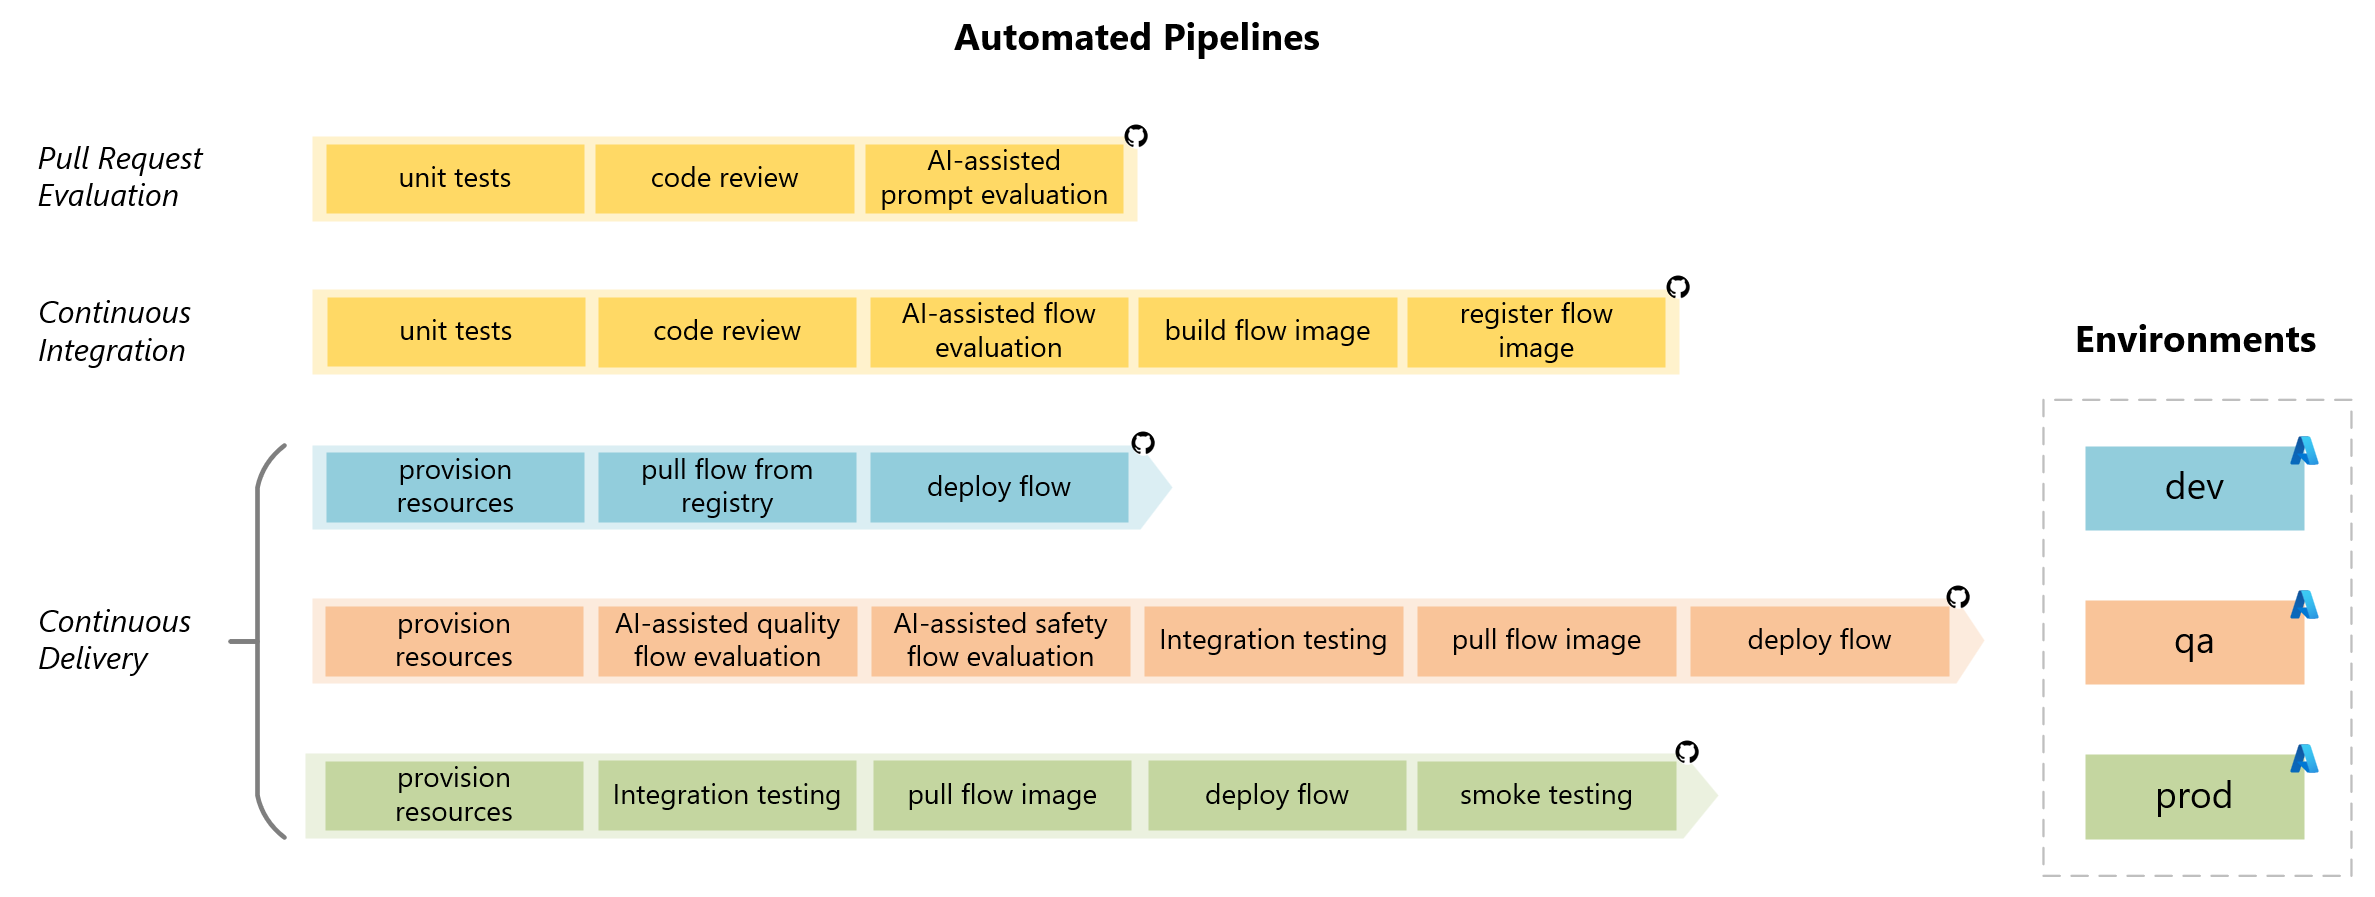
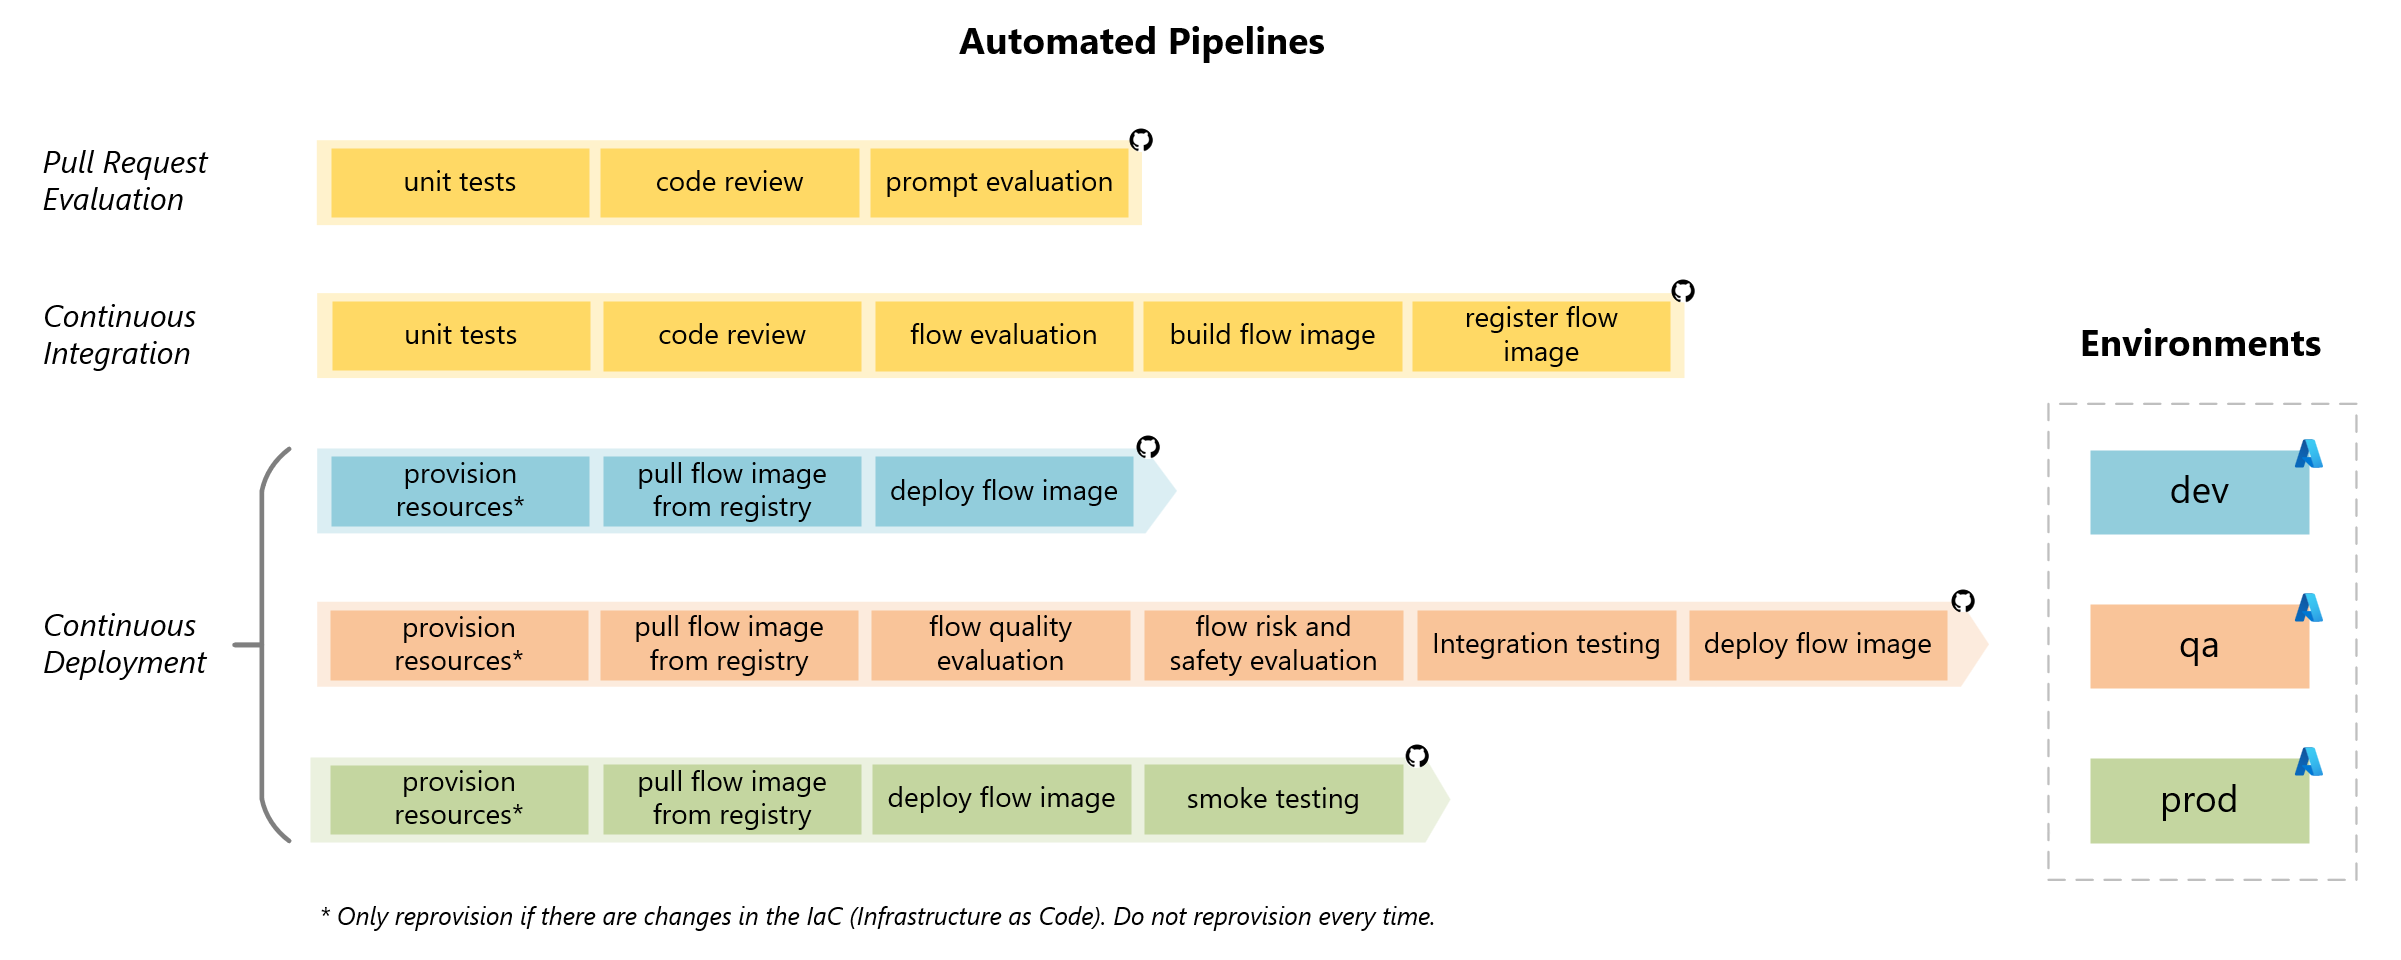
documentation

diff --git a/documentation/git_workflow.md b/documentation/git_workflow.md
@@ -1,6 +1,6 @@
 # Git Workflow and Pipelines
 
-On this page, you will learn about the Git workflow used by this accelerator, including branches and how changes to the code can trigger automation pipelines.This workflow follows the [Git flow](https://nvie.com/posts/a-successful-git-branching-model) methodology, which is a best practice for managing Git with multiple environments like **dev**, **qa**, and **prod**. But you can always choose the workflow that works best for your project.
+On this page, you will learn about the Git workflow used by this accelerator, including branches and how changes to the code can trigger automation pipelines. The workflow follows the [Git flow](https://nvie.com/posts/a-successful-git-branching-model) methodology, which is widely recognized for effectively managing Git with multiple environments like **dev**, **qa**, and **prod**. However, feel free to choose the workflow that best suits your project's needs.
 
 # Git Workflow
 
@@ -36,11 +36,11 @@ gh pr create --base develop --head feature/feature_x --title "[Your Feature Name
 
 3. **Merge to develop**:
 
-Once the Pull Request is approved, it is merged into the `develop` branch. This merge triggers the *Continuous Integration (CI) Pipeline*, which builds the orchestration flow and conducts AI-assisted evaluations using a comprehensive test dataset based on the [Golden Dataset](https://aka.ms/copilot-golden-dataset-guide). Upon successful completion, the *Continuous Delivery (CD) Pipeline* is executed to deploy the flow to the **dev** environment.
+Once the Pull Request is approved, it is merged into the `develop` branch. This merge triggers the *Continuous Integration (CI) Pipeline*, which builds the orchestration flow and conducts AI-assisted evaluations using a comprehensive test dataset based on the [Golden Dataset](https://aka.ms/copilot-golden-dataset-guide). Upon successful completion, the *Continuous Deployment (CD) Pipeline* is executed to deploy the flow to the **dev** environment.
 
 4. **Release Branch (Release/1.0.0)**:
 
-After confirming the stability of the `develop` branch through testing in **dev**, a release branch `release/1.0.0` is created from `develop`. This triggers a *Continuous Delivery (CD) pipeline* to deploy the application to the **qa** environment. Before deployment, an AI-based evaluation assesses quality, risk, and safety metrics to ensure stability. The application in **qa** is then used for User Acceptance Testing (UAT) and [red teaming](https://learn.microsoft.com/en-us/azure/ai-services/openai/concepts/red-teaming) testing.
+After confirming the stability of the `develop` branch through testing in **dev**, a release branch `release/1.0.0` is created from `develop`. This triggers a *Continuous Deployment (CD) pipeline* to deploy the application to the **qa** environment. Before deployment, an AI-based evaluation assesses [quality](https://learn.microsoft.com/en-us/azure/ai-studio/how-to/develop/flow-evaluate-sdk), risk and [safety](https://learn.microsoft.com/en-us/azure/ai-studio/how-to/develop/simulator-interaction-data) evaluation. The application in **qa** is then used for User Acceptance Testing (UAT) and [red-teaming](https://learn.microsoft.com/en-us/azure/ai-services/openai/concepts/red-teaming) ou LLM App.
 
 ```bash
 git checkout develop
@@ -60,16 +60,24 @@ gh pr create --base main --head release/1.0.0 --title "Release 1.0.0" --body "Me
 
 6. **Merge to main**:
 
-Once the pull request (PR) to the `main` branch is manually approved, the release branch is merged into the `main` branch. This action triggers the Continuous Delivery (CD) pipeline, which deploys the code to the **prod** environment.
+Once the pull request (PR) to the `main` branch is manually approved, the release branch is merged into the `main` branch. This action triggers the Continuous Deployment (CD) pipeline, which deploys the code to the **prod** environment.
 
 ## CI/CD Pipelines
 
-CI/CD (Continuous Integration/Continuous Delivery) pipelines automate integration, evaluation, and deployment, streamlining workflows, reducing errors, and ensuring efficient delivery of high-quality application to production.
+The CI/CD (Continuous Integration/Continuous Deployment) pipelines automate integration, evaluation, and deployment processes, ensuring efficient delivery of high-quality applications.
 
 ![Pipelines](../media/git_workflow_pipelines.png)
 
-The *Pull Request pipeline* runs unit tests and utilize AI-assisted evaluation to validate the changes in the pull request. This step ensures that any new code additions or modifications meet the project's quality standards before being integrated into the main codebase.
+**The Pull Request Evaluation Pipeline** begins with unit tests, followed by a code review, and concludes with AI-assisted prompt evaluation to validate code changes before integration.
 
-In the *Continuous Integration pipeline*, the process starts with the build flow, where the application is built from the source code. Following this, an AI-assisted evaluation is conducted to analyze the build for potential issues. If the evaluation is successful, the final step is the register flow, which registers the built application and prepares it for deployment.
+**In the Continuous Integration Pipeline**, the process starts with unit tests and code reviews, followed by AI-assisted flow evaluation to identify potential issues. The application is then built, and the flow image is registered for deployment.
 
-The *Continuous Delivery pipeline* has three different configurations one for each environment: **dev**, **qa**, and **prod**. In the *dev* option, necessary resources are set up, the latest code is pulled, and the application is deployed to the **dev** environment for initial testing. The *qa* alternative provisions resources, retrieves the latest code, and performs an AI-assisted evaluation to ensure the application meets quality standards before deployment to the **qa** environment. Finally, the *prod* option deploys the application to the **prod** environment after provisioning resources and updating the code. Smoke tests confirm the application's functionality post-deployment.
+**The Continuous Deployment Pipeline** operates across three environments: dev, qa, and prod. Provisioning of resources is performed when necessary, and the deployment of the application is executed in the respective environment.
+
+- **In the dev environment**, the latest code is pulled, and the application is deployed for the development team's testing.
+
+- **In the qa environment**, the code is retrieved, and AI-assisted evaluations for quality and safety are conducted, followed by integration testing. The application is then deployed and made available for User Acceptance Testing (UAT).
+
+- **In the prod environment**, the same image built in the Continuous Integration Pipeline is deployed, ensuring consistency and reliability. Integration testing is conducted, and smoke testing ensures functionality post-deployment.
+
+This structured approach streamlines workflows, reduces errors, and guarantees the efficient delivery of applications to production.

diff --git a/documentation/delivering_new_feature.md b/documentation/delivering_new_feature.md
@@ -48,7 +48,7 @@ New-Item -ItemType File -Name "FEATUREX.md"
 
 This ensures the new feature is developed in isolation, maintaining the integrity of the project's `develop` branch and promptflow.
 
-### 2. Pull Request (PR)
+### 2. Pull Request (PR) to `develop`
 
 Upon completing the feature, create a Pull Request (PR) to merge changes from the feature branch `feature/feature_x` to the `develop` branch, which is the default branch where the team integrates changes.
 
@@ -60,17 +60,19 @@ git commit -m "Feature complete: [Your Feature Description]"
 git push origin feature/feature_x
 ```
 
-**Create the PR using GitHub CLI or the GitHub website:**
+**Create the PR:**
 
 ```bash
 gh pr create --base develop --head feature/feature_x --title "[Your Feature Name]" --body "Description of the changes and the impact."
 ```
 
+You can also use the GitHub website to create the pull request. Remember to select `develop` as the base branch and `feature/feature_x` as the compare branch.
+
 The creation of the PR triggers a PR Evaluation Pipeline to ensure that the code adheres to standards, passes unit tests, and the orchestration flow is evaluated by AI to ensure it meets quality metrics.
 
 ### 3. Merge to `develop`
 
-Approve the Pull Request, merging it into the `develop` branch. This merge triggers the Continuous Integration (CI) Pipeline, which builds the orchestration flow and conducts AI-assisted evaluations using a comprehensive test dataset based on the [Golden Dataset](https://aka.ms/copilot-golden-dataset-guide). Upon successful completion, the Continuous Delivery (CD) Pipeline is executed to deploy the flow to the **dev** environment.
+Approve the Pull Request, merging it into the `develop` branch. This merge triggers the Continuous Integration (CI) Pipeline, which builds the orchestration flow and conducts AI-assisted evaluations using a comprehensive test dataset based on the [Golden Dataset](https://aka.ms/copilot-golden-dataset-guide). Upon successful completion, the Continuous Deployment (CD) Pipeline is executed to deploy the flow to the **dev** environment.
 
 **Merge the PR using GitHub:**
 
@@ -78,7 +80,7 @@ Go to the Pull Requests tab in your repository, select the recently created PR, 
 
 ### 4. Release Branch (`release/1.0.0`)
 
-After confirming the stability of the `develop` branch through testing in **dev**, create a release branch `release/1.0.0` from `develop`. This triggers a Continuous Delivery (CD) pipeline to deploy the application to the **qa** environment. Before deployment, an AI-based evaluation assesses quality, risk, and safety metrics to ensure stability. The application in **qa** is then used for User Acceptance Testing (UAT) and [red teaming](https://learn.microsoft.com/en-us/azure/ai-services/openai/concepts/red-teaming) testing.
+After confirming the stability of the `develop` branch through testing in **dev**, create a release branch `release/1.0.0` from `develop`. This triggers a *Continuous Deployment (CD) pipeline* to deploy the application to the **qa** environment. Before deployment, an AI-based evaluation assesses [quality](https://learn.microsoft.com/en-us/azure/ai-studio/how-to/develop/flow-evaluate-sdk), risk and [safety](https://learn.microsoft.com/en-us/azure/ai-studio/how-to/develop/simulator-interaction-data) evaluation. The application in **qa** is then used for User Acceptance Testing (UAT) and [red-teaming](https://learn.microsoft.com/en-us/azure/ai-services/openai/concepts/red-teaming) ou LLM App.
 
 **Create the release branch:**
 
@@ -93,12 +95,16 @@ git push origin release/1.0.0
 
 After UAT tests in the **qa** environment confirm that the application is ready for production, create a Pull Request (PR) to merge the changes into the `main` branch from the `release/1.0.0` branch.
 
-**Create the PR using GitHub CLI or the GitHub website:**
+**Create the PR:**
+
+Below is an example utilizing the GitHub CLI:
 
 ```bash
-gh pr create --base main --head release/1.0.0 --title "Release 1.0.0" --body "Merging release/1.0.0 into main after successful UAT in QA environment" 
+gh pr create --base main --head release/1.0.0 --title "Release 1.0.0" --body "Merging release/1.0.0 into main after successful UAT in QA environment"
 ```
+
+You can also use the GitHub website to create the pull request. Remember to select `main` as the base branch and `release/1.0.0` as the compare branch.
 
 ### 6. Merge to `main`
 
-Once the Pull Request (PR) to the `main` branch is approved on GitHub, go to the Pull Requests tab of your project repository on GitHub, select the PR created for merging into production, and click on **Merge pull request** to manually approve the merge of `release/1.0.0` into the `main` branch. This action triggers the Continuous Delivery (CD) pipeline, which deploys the code to the **prod** environment.
+Once the Pull Request (PR) to the `main` branch is approved on GitHub, go to the Pull Requests tab of your project repository on GitHub, select the PR created for merging into production, and click on **Merge pull request** to manually approve the merge of `release/1.0.0` into the `main` branch. This action triggers the Continuous Deployment (CD) pipeline, which deploys the code to the **prod** environment.

diff --git a/documentation/bootstrapping.md b/documentation/bootstrapping.md
@@ -18,17 +18,17 @@ You will also need:
 
 ## Steps to Bootstrap a Project
 
-1. **Clone the LLMOps Repo (this repository)**
+1. **Clone the LLMOps Repo (this repository) into a temporary directory**
 
-   Clone the repository from GitHub:
+   Clone the repository from GitHub into a temporary directory:
 
    ```sh
-   git clone https://github.com/azure/llmops
+   git clone https://github.com/azure/llmops /tmp/llmops
    ```
 
 2. **Define Properties for Bootstrapping**
 
-   Enter the `llmops` directory, rename the `bootstrap.properties.template` file to `bootstrap.properties`, and update it with the following information:
+    Go to the `llmops` directory, create a copy of the `bootstrap.properties.template` file, rename the copy to `bootstrap.properties`, and update it with the following information:
 
    - **GitHub Repo Creation** (related to the new repository to be created)
      - `github_username`: Your GitHub **username**.
@@ -37,7 +37,7 @@ You will also need:
      - `github_new_repo`: The bootstrapped project repo to be created. Ex *placerda/my-rag-project*.
      - `github_new_repo_visibility`: Visibility of the new repository, choose **public**, **private** or **internal**.
 
-        > For private or internal repositories, you must use GitHub Pro, GitHub Team, or GitHub Enterprise. 
+        > For private or internal repositories, you must use GitHub Pro, GitHub Team, or GitHub Enterprise.
 
    - **Dev Environment Provision Properties**
      - `azd_dev_env_provision`: Set to **true** to provision a development environment.
@@ -46,9 +46,9 @@ You will also need:
 
      - `azd_dev_env_name`: The name of the development environment. Ex: *rag-project-dev*.
      - `azd_dev_env_subscription`: Your Azure subscription ID.
-     - `azd_dev_env_location`: The Azure region for your dev environment. Ex: *eastus*.
+     - `azd_dev_env_location`: The Azure region for your dev environment. Ex: *eastus2*.
 
-    > The dev environment resources will be created in the selected subscription and region. This decision should consider the quota available for the resources to be created in the region, as well as the fact that some resources have specific features enabled only in certain regions. Therefore, ensure that the resources to be created by the IaaC of your template project have quota and availability in the chosen subscription and region. More information about the resources to be created can be found on the template page, as shown in this example: [LLMOps Project Template Resources](https://github.com/Azure/llmops-project-template/blob/main/README.md#project-resources).
+    > The dev environment resources will be created in the selected subscription and region. This decision should consider the quota available for the resources to be created in the region, as well as the fact that some resources have specific features enabled only in certain regions. Therefore, ensure that the resources to be created by the IaC of your template project have quota and availability in the chosen subscription and region. More information about the resources to be created can be found on the template page, as shown in this project template example: [LLMOps Project Template Resources](https://github.com/Azure/llmops-project-template/blob/main/README.md#project-resources).
 
    Here is an example of the `bootstrap.properties` file:
 
@@ -61,7 +61,7 @@ You will also need:
    azd_dev_env_provision="true"
    azd_dev_env_name="rag-project-dev"
    azd_dev_env_subscription="12345678-1234-1234-1234-123456789098"
-   azd_dev_env_location="eastus"
+   azd_dev_env_location="eastus2"
    ```
 
 3. **Authenticate with Azure and GitHub**
@@ -144,5 +144,7 @@ You will also need:
        "tenantId": "your-tenant-id"
    }
    ```
+
+   > **Note:** If you are only interested in experimenting with this accelerator, you can use the same subscription, varying only `AZURE_ENV_NAME` for each enviornment.
 
 That's all! Your new project is now bootstrapped and ready to go.

diff --git a/README.md b/README.md
@@ -2,7 +2,7 @@
 
 ![Header](media/llmopsheader.png)
 
-Welcome to the LLMOps Solution Accelerator! This project offers a ready-to-run LLMOps reference implementation, accompanied by essential concepts aimed at facilitating the adoption of LLMOps practices into your projects.
+Welcome to the LLMOps Solution Accelerator! This project provides a ready-to-run LLMOps solution, with a primary focus on CI/CD pipeline implementation. It includes essential concepts designed to help you seamlessly adopt LLMOps practices into your projects.
 
 ## Highlights
 
@@ -11,13 +11,16 @@ Welcome to the LLMOps Solution Accelerator! This project offers a ready-to-run L
 - Easy-to-configure and extend templates
 - Leverage Azure AI Studio
 
+
 ## Documentation
 
-<!-- 1. [Reference Architecture](documentation/reference_architecture.md) -->
-1. [Repository Structure](documentation/repository_structure.md)
-2. [Git Workflow and Pipelines](documentation/git_workflow.md)
-3. [LLM  Project Roles](documentation/project_roles.md)
+Explore this set of articles to navigate and implement the accelerator smoothly. These resources clarify the repository structure, Git workflow, and reference architecture, providing a strong foundation for successful execution.
 
+1. [Repository Structure](documentation/repository_structure.md): Describes how the repository structure is organized.
+2. [Git Workflow and Pipelines](documentation/git_workflow.md): Explains the Git workflow and CI/CD pipelines used in the accelerator.
+3. [Reference Architecture](documentation/reference_architecture.md): Reference architecture that this accelerator is based on.
+1. [RAG Project Template](https://github.com/azure/llmops-project-template): Offers a ready-to-use RAG project template.
+1. [LLM Project Roles](documentation/project_roles.md): Details the various roles in an LLM project and their responsibilities.
 
 ## How-to
 

diff --git a/documentation/repository_structure.md b/documentation/repository_structure.md
@@ -1,6 +1,6 @@
 # Repository Structure
 
-This accelerator utilizes project templates as its foundation. Therefore, we've structured our repository system to include a primary repository, which contains comprehensive documentation, and bootstrapping scripts for initiating projects using these templates. To maintain simplicity and promote cohesion within each repository, we allocate a separate repository for each project template. The diagram below illustrates the proposed structure.
+This accelerator utilizes project templates as its foundation. Therefore, the repository system is structured to include a primary repository, which contains comprehensive documentation and bootstrapping scripts for initiating projects using these templates. To maintain simplicity and promote cohesion within each repository, a separate repository is allocated for each project template. Additionally, dependencies between the primary repository and the template repositories are minimized. The diagram below illustrates the proposed structure.
 
 ![Header](../media/git_workflow_repository_structure.png)
 

diff --git a/documentation/reference_architecture.md b/documentation/reference_architecture.md
@@ -1,3 +1,5 @@
 # Reference Architecture
 
-In this section, we present the reference architecture LLMOps used by this accelerator.
+This section details the reference architecture for LLMOps used by this accelerator. The architecture serves as a guideline, offering a comprehensive framework adaptable to the specific needs and requirements of each project.
+
+![Header](../media/reference_architecture.png)
